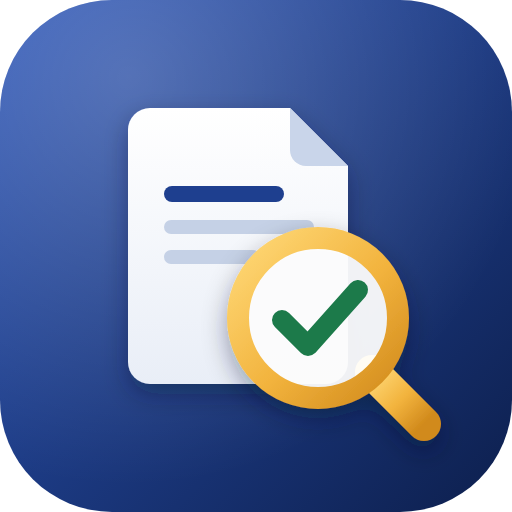
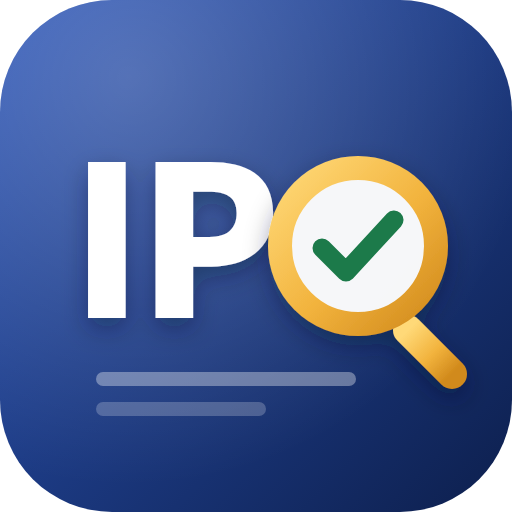
앱 아이콘을 IPO 디자인으로 교체
Claude-Session: https://claude.ai/code/session_01YDckwLpRbQFTVvL4RaHcaj

diff --git a/sw.js b/sw.js
@@ -1,5 +1,5 @@
 // 코스닥 상장심사 사례집 - 오프라인 캐시
-const VERSION = 'ksc-2026-09-29-icon2';
+const VERSION = 'ksc-2026-09-29-icon3';
 const CORE = ['./', './index.html', './manifest.webmanifest', './icons/icon-192.png', './icons/icon-512.png', './icons/maskable-512.png', './icons/apple-touch-icon.png'];
 
 self.addEventListener('install', e => {
